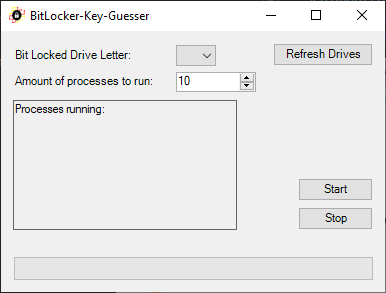
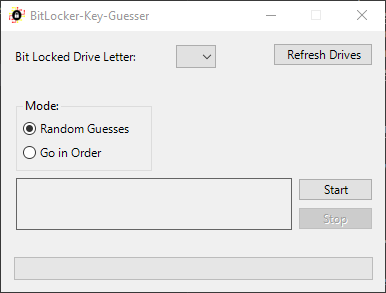
Reworked

diff --git a/README.md b/README.md
@@ -2,8 +2,10 @@
 PowerShell script to guess the BitLocker key for a Bit Locked drive.
 
 ## Running the Program
+Powershell 7 or higher is required to be [installed](https://learn.microsoft.com/en-us/powershell/scripting/install/installing-powershell?view=powershell-7.4) on your system.  
+Allow [scripts to be run](https://learn.microsoft.com/en-us/powershell/module/microsoft.powershell.security/set-executionpolicy?view=powershell-7.4) from powershell 7.  
 Download the [latest zip file](https://github.com/DiadNetworks/BitLocker-Key-Guesser/releases/latest).  
-Run `BitGuesser.bat` as an administrator.  
+Run `BitGuesser.bat`, preferably as an administrator.  
 Refer to the [controls section](https://github.com/DiadNetworks/BitLocker-Key-Guesser#controls) below for an explanation of the GUI controls.
 
 ## Controls
@@ -11,21 +13,19 @@ Refer to the [controls section](https://github.com/DiadNetworks/BitLocker-Key-Gu
   
 **Bit Locked Drive Letter:** Use this dropdown to select the bit locked drive that you want to guess the key for.  
   
-**Refresh Drives:** Use this button to refresh the list of drives. Useful if you ran the program before plugging in the bit locked drive.  
+**Refresh Drives:** Use this button to refresh the list of drives. Use this if you ran the program before plugging in the bit locked drive.  
   
-**Amount of processes to run:** Select how many processes you want the program to start. Each process will make independent guesses on the bit locked drive. Recommended to do between 100-500, or more if your computer can handle it. Be careful of going too high with this.  
+**Mode:** Here you can choose whether to attempt random guesses or to generate keys in order.  
   
-**Info Window:** Displays info regarding the running processes. Currently only displays the amount of processes running (as of now, this number is only updated when using the start and stop buttons).  
+**Info Window:** For future use.  
   
-**Start:** Click this when you're ready to start guessing the key. It will start the processes using the drive letter and amount that you specified.  
+**Start:** Click this when you're ready to start guessing the key. It will start the process using the drive letter that you specified. A powershell window will open up showing info.  
   
-**Stop:** Click this if you want to close all running processes. Since the guesses are random, stopping and starting is ok.  
+**Stop:** Click this if you want to close the running process. This will only work if you ran `BitGuesser.bat` as an administrator, otherwise you will need to close out the powershell window manually.  
   
-**Progress Bar:** Just lets you know something is going on.  
+**Progress Bar:** Just for show.  
 
 ## What happens if it guesses correctly?  
 If one of the processes guesses the correct key, it will unlock the drive and output the key to `SuccessfulKey.txt` in the same folder as `BitGuesser.bat`.  
-
-The program won't know when the correct key is guessed and the drive has been unlocked, so you will need to use the stop button to close all the running processes if you see the drive has been decrypted.  
 
 **Note:** The program won't permanently decrypt the drive, so make sure you go to control panel and do that if that's what you want. If you plan on leaving the drive encrypted, then save the key from `SuccessfulKey.txt`.
